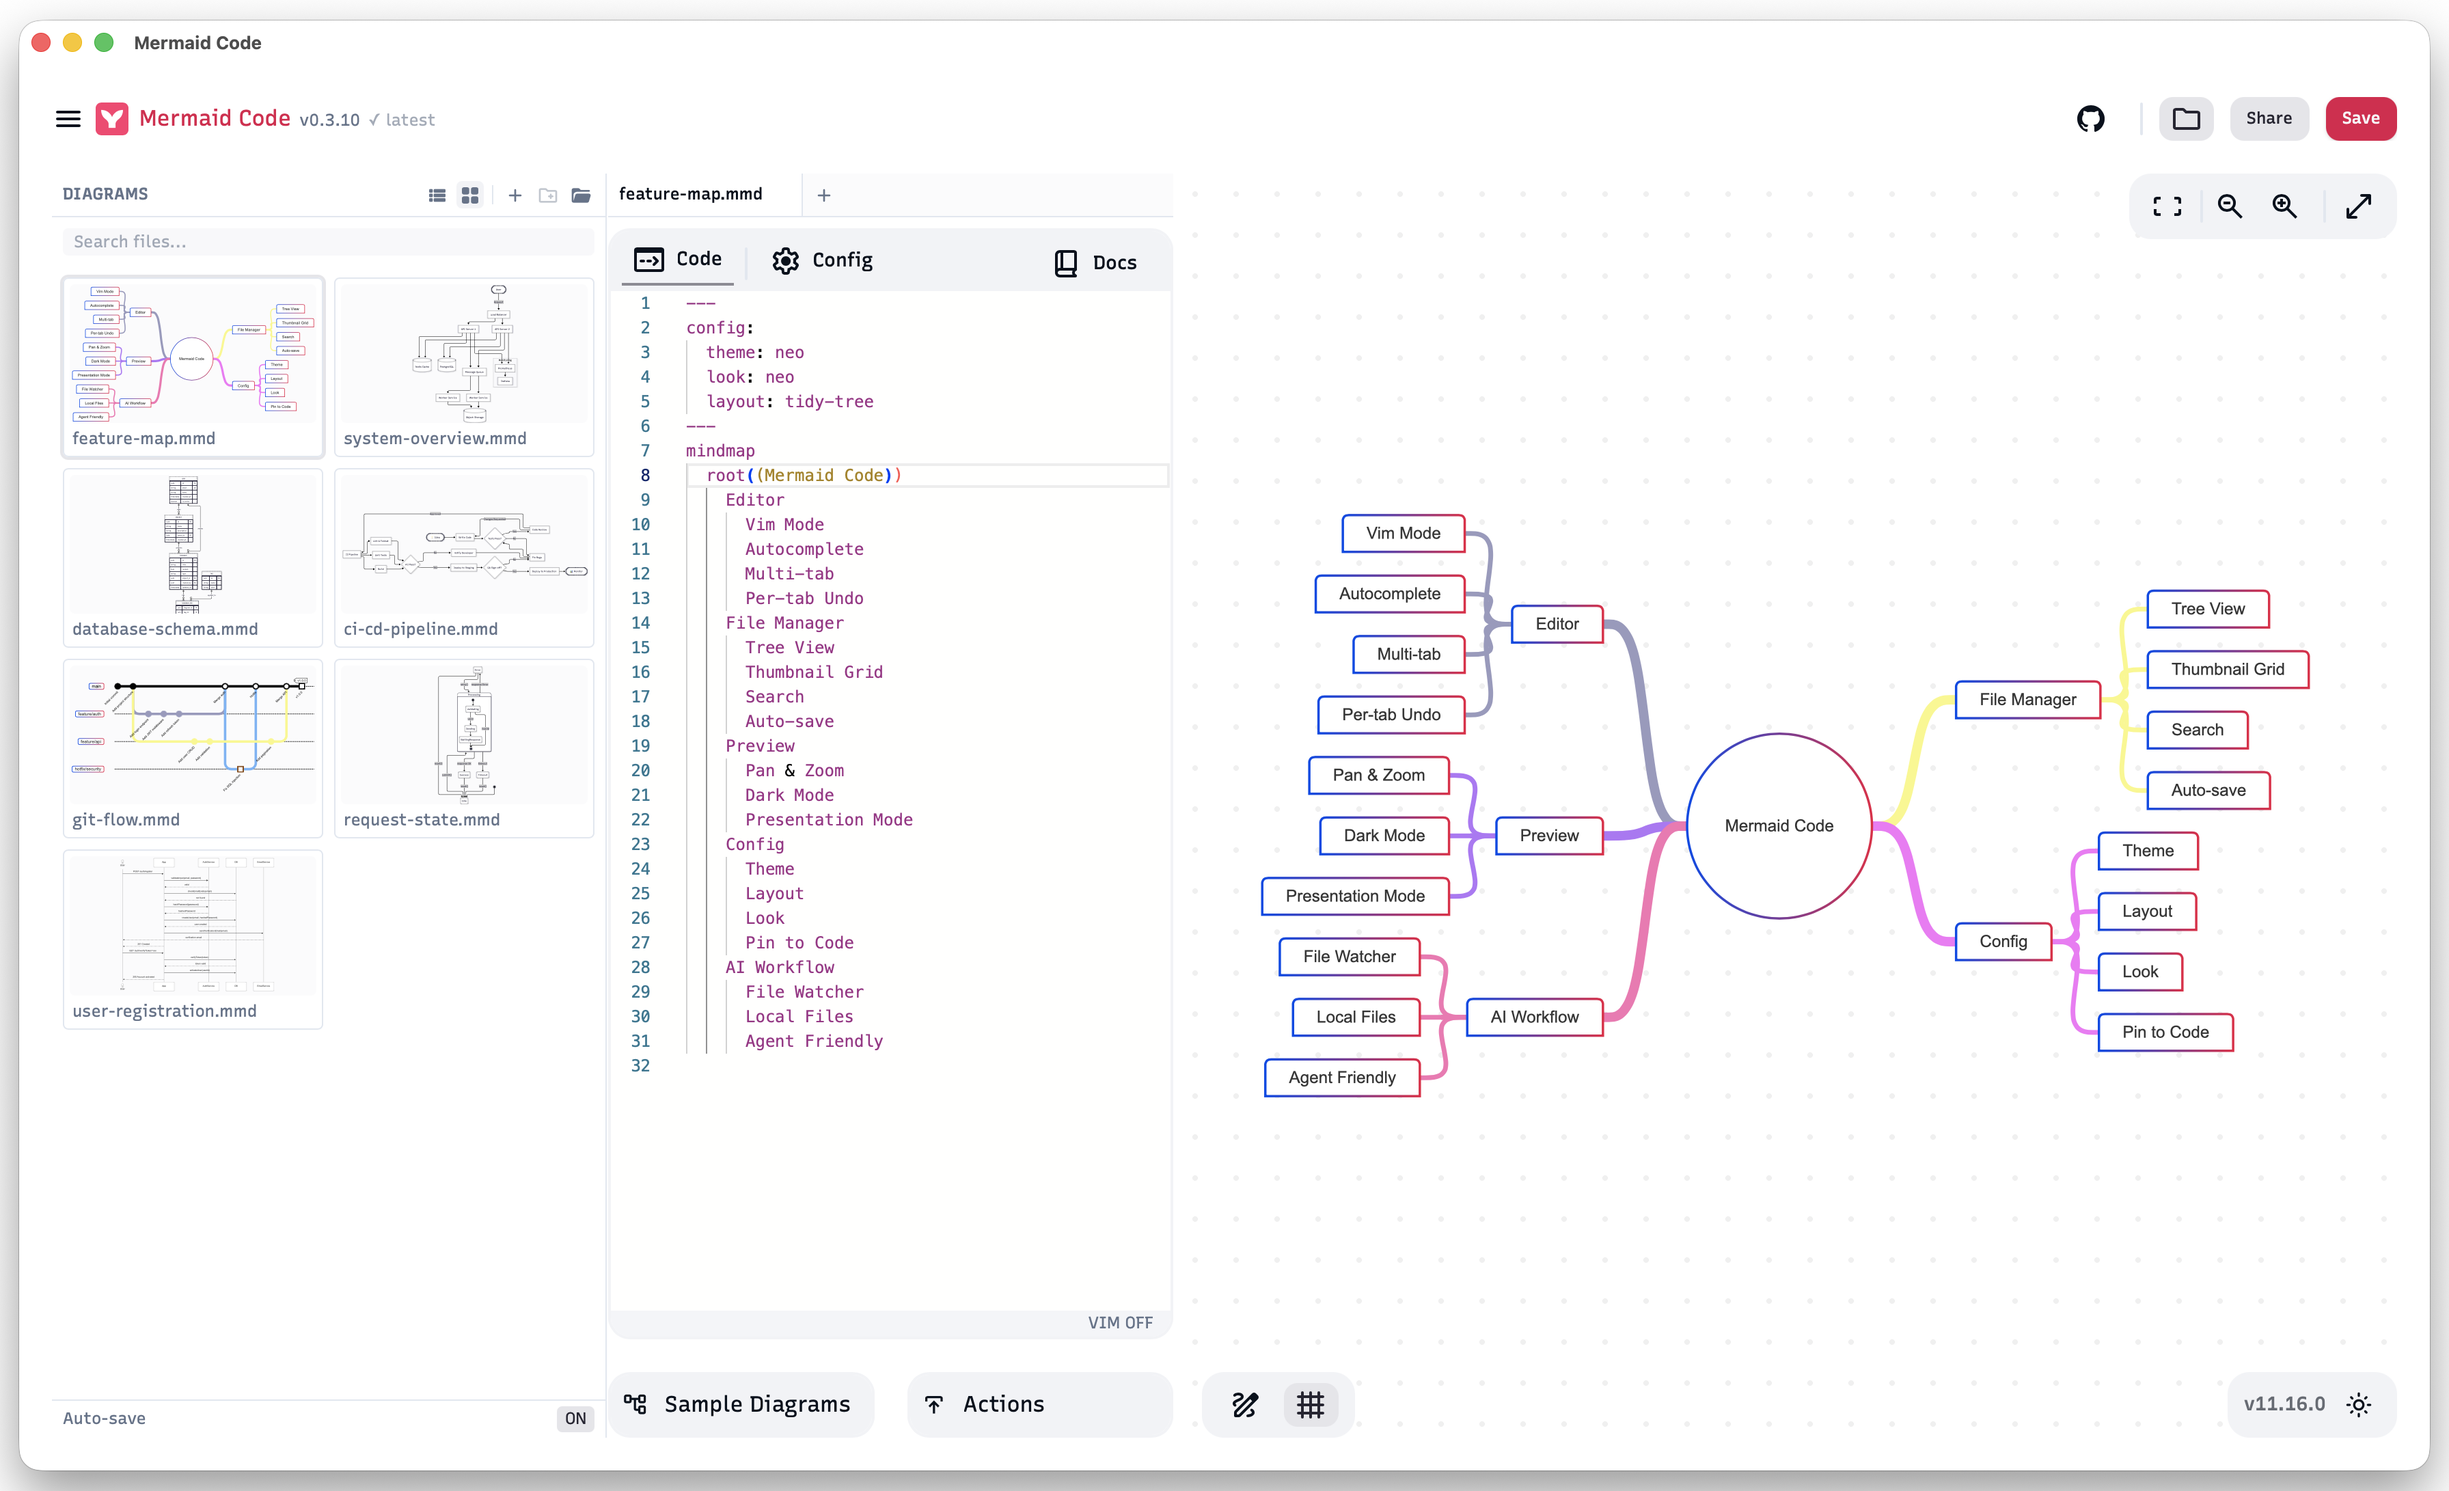
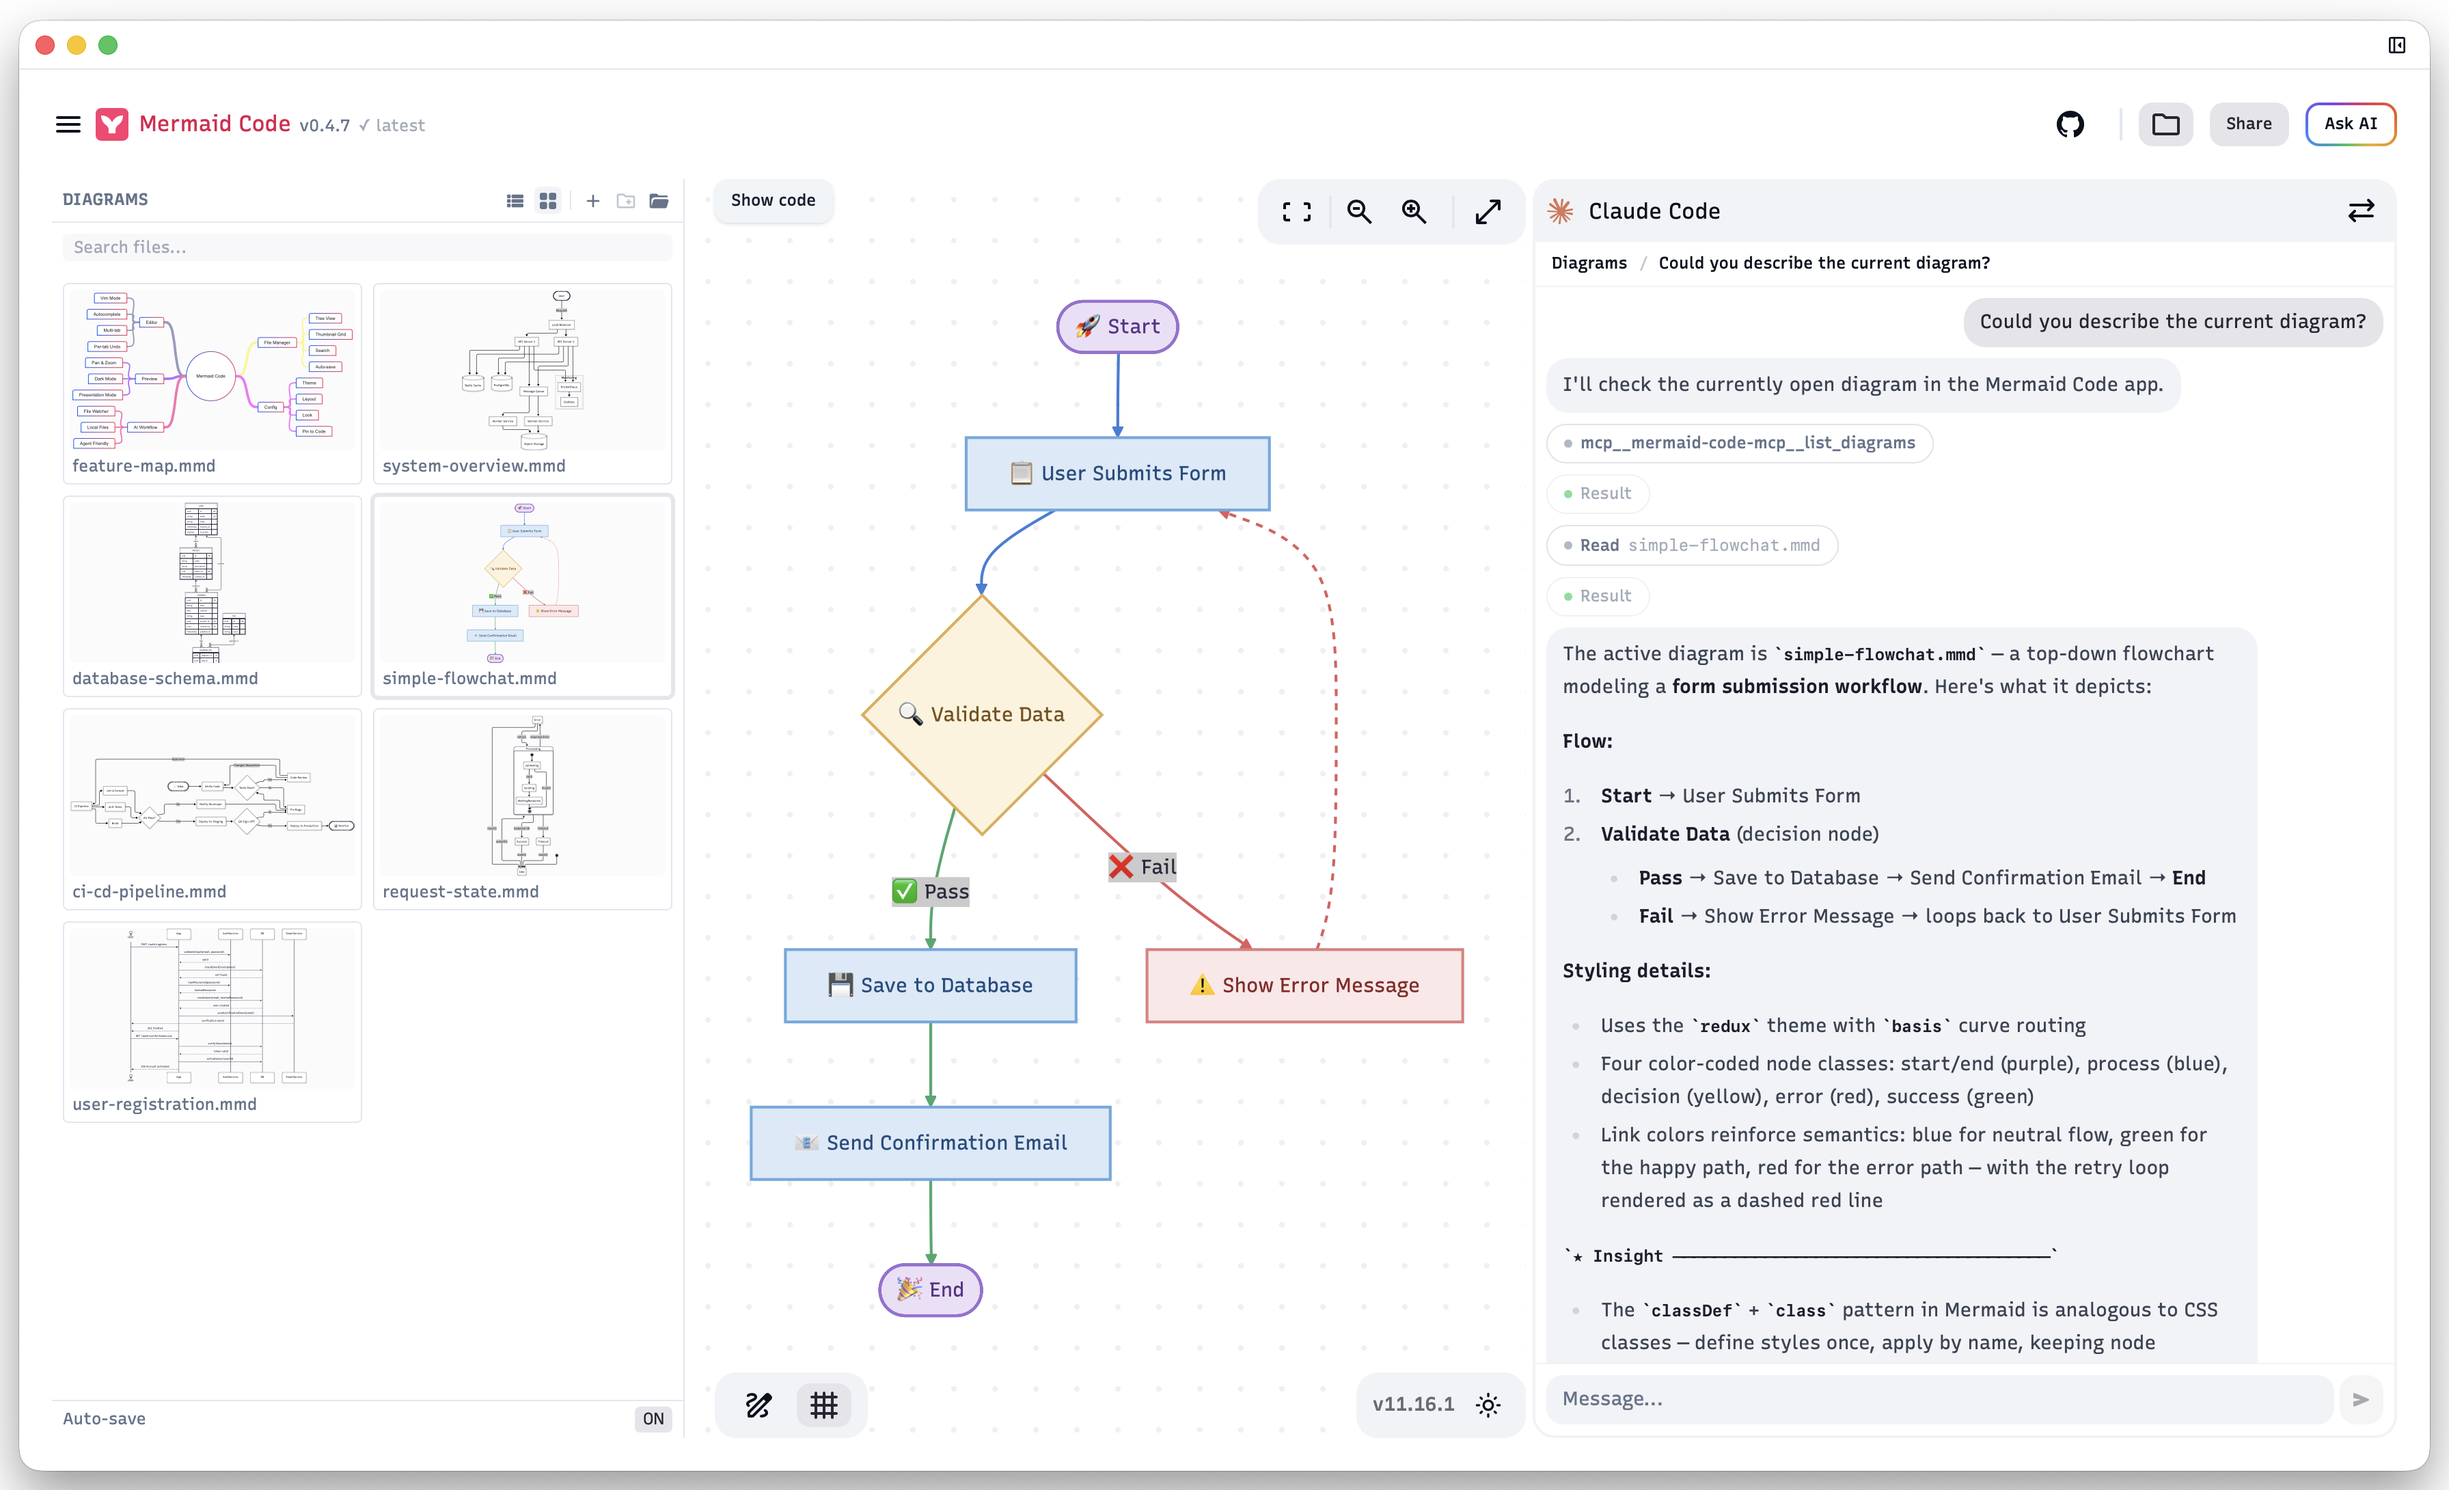
docs: update showcase

diff --git a/README.zh-CN.md b/README.zh-CN.md
@@ -6,7 +6,7 @@
 
 一款基于 [Mermaid Live Editor](https://github.com/mermaid-js/mermaid-live-editor) 的本地 Mermaid 图表编辑器，并借助 [Tauri](https://tauri.app) 赋予跨平台原生桌面应用体验。
 
-![Mermaid Code showcase](showcase.png)
+![Mermaid Code showcase](showcase.zh-CN.png)
 
 ## 为「以 AI 为中心」的工作流而打造
 
